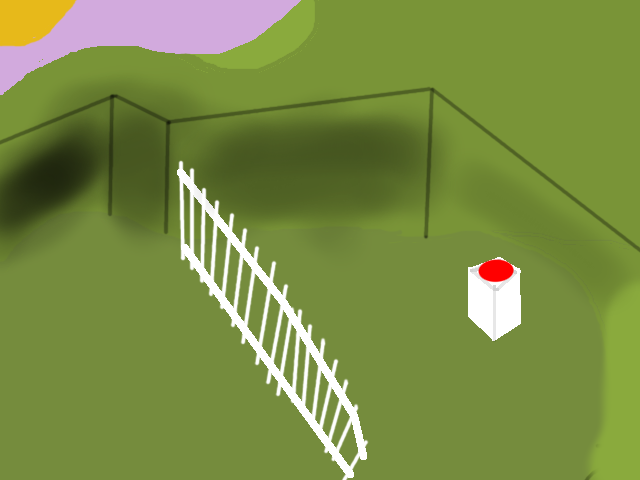
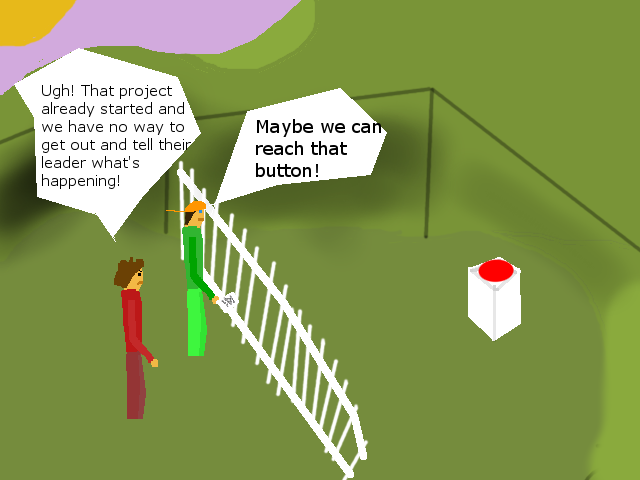
finished first gameplay scene

Changed region(s): [[0.0, 0.0938, 0.3125, 0.5], [0.2812, 0.1875, 0.625, 0.75], [0.1562, 0.5312, 0.25, 0.875]]

diff --git a/main.cpp b/main.cpp
@@ -21,14 +21,14 @@ bool justEnteredMMenu;
 #define MAIN_MENU 2
 #define NEW_GAME_SCREEN 3
 #define STORY 4
-#define INSTRUCTIONS 5
-#define GAME 10
+#define SCENE1p1 10
+#define SCENE1p2 11
 
 int currentGameState = NONE;
 
 void gotoMainMenu(){
     currentGameState = MAIN_MENU;
-    justEnteredMMenu=true;
+    justEnteredMMenu = true;
 }
 
 SDL_Window* gWin = NULL;
@@ -48,6 +48,9 @@ SDL_Surface* gameTitle = NULL;
 SDL_Surface* playButton = NULL, *quitButton = NULL;
 SDL_Surface* newGame = NULL, *continueGame = NULL;
 SDL_Surface* mainMenu = NULL;
+
+SDL_Surface* scene1bars = NULL;
+SDL_Surface* scene1nobars = NULL;
 
 SDL_Surface* alpha1 = NULL;
 
@@ -156,6 +159,11 @@ int loadMedia(){
     if((LD29_splash = load("res/logo/ld29sp.png"))==NULL)
         return 1;
 
+    if((scene1bars  = load("res/scenes/scene1_bars.png"))==NULL)
+        return 1;
+    if((scene1nobars= load("res/scenes/scene1_nobars.png"))==NULL)
+        return 1;
+
     if((winIcon     = load("res/icon.png"))==NULL)
         return 1;
 
@@ -197,7 +205,10 @@ bool clickedButton(button b, int x, int y){
 void handleEvent(SDL_Event e){
     switch(e.type){
         case SDL_QUIT: {
-            quit();
+            if(currentGameState==MAIN_MENU)
+                quit();
+            else
+                gotoMainMenu();
             break;
         }
         case SDL_KEYDOWN: {
@@ -239,7 +250,7 @@ void render() {
             SDL_BlitScaled(buttons[i].s,NULL,gWinSrf,&buttons[i].b);
     }
     SDL_UpdateWindowSurface(gWin);
-    SDL_FillRect(gWinSrf,&gWinSrf->clip_rect,0);
+
 }
 
 void showandwaitforinput(SDL_Surface* s) {
@@ -272,7 +283,8 @@ void initButtons(){
     makeButton(LD29_splash,buttonRect,&openLDWebPage, MAIN_MENU);
 
 }
-
+bool firstTimeSCENE1 = true;
+long long scene1timer = -1;
 void gameLoop() {
     SDL_SetWindowIcon(gWin,winIcon);
     int ticks = 0; //-> should allways be 60 (sometimes 59 or 61)
@@ -284,6 +296,7 @@ void gameLoop() {
     running = true;
     initButtons();
     while(running){
+        SDL_FillRect(gWinSrf,&gWinSrf->clip_rect,0);
         long long now = SDL_GetTicks();
         switch(currentGameState){
             case NONE: {
@@ -363,7 +376,7 @@ void gameLoop() {
                 break;
 
             }
-            case GAME: {
+            /*case GAME: {
                 int standingframe = SDL_GetTicks() / standTime % 2;
                 int walkingframe = SDL_GetTicks() / walkTime % 4;
                 SDL_Rect standrect, standrectd, walkrect, walkrectd;
@@ -374,6 +387,39 @@ void gameLoop() {
                 walkrectd = {100,0,64,128};
                 SDL_BlitSurface(playerMole,&walkrect,gWinSrf,&walkrectd);
                 break;
+            }*/
+
+            case SCENE1p1: {
+                SDL_Event e;
+                SDL_BlitSurface(scene1bars,NULL,gWinSrf,NULL);
+                render();
+                while(SDL_PollEvent(&e))
+                    if(e.type==SDL_MOUSEBUTTONDOWN) {
+                        int mx=e.button.x, my=e.button.y;
+                        if(mx>=468&&my>=254&&mx<=521&&my<=334){
+                            SDL_Rect pmr = {SDL_GetTicks()/standTime%2*64,0,64,128}, tr = {400,200,64,128};
+                            SDL_BlitSurface(playerMole,&pmr,gWinSrf,&tr);
+                            scene1timer=SDL_GetTicks();
+                        }
+                    } else if(e.type==SDL_QUIT)
+                        gotoMainMenu();
+                if(SDL_GetTicks()-scene1timer>2000&&scene1timer!=-1)
+                    currentGameState=SCENE1p2;
+                else{
+                    if((SDL_GetTicks()-scene1timer)%42==0&&scene1timer!=-1){
+                        SDL_Rect gwsr = {400,200,64,128}, pml = {SDL_GetTicks() / standTime % 2 * 64, 0, 64, 128};
+                        SDL_BlitSurface(playerMole,&pml,gWinSrf,&gwsr);
+                        render();
+                    }
+                }
+                break;
+            }
+
+            case SCENE1p2: {
+                SDL_BlitSurface(scene1nobars,NULL,gWinSrf,NULL);
+                SDL_Rect gwsr = {400,200,64,128}, pml = {SDL_GetTicks() / standTime % 2 * 64, 128, 64, 128};
+                SDL_BlitSurface(playerMole,&pml,gWinSrf,&gwsr);
+                break;
             }
 
             case STORY: {
@@ -383,7 +429,8 @@ void gameLoop() {
                     showandwaitforinput(story2);
                     showandwaitforinput(story3);
                 }
-
+                currentGameState=SCENE1p1;
+                //scene1timer=-1;
                 break;
             }
             case NEW_GAME_SCREEN: {
